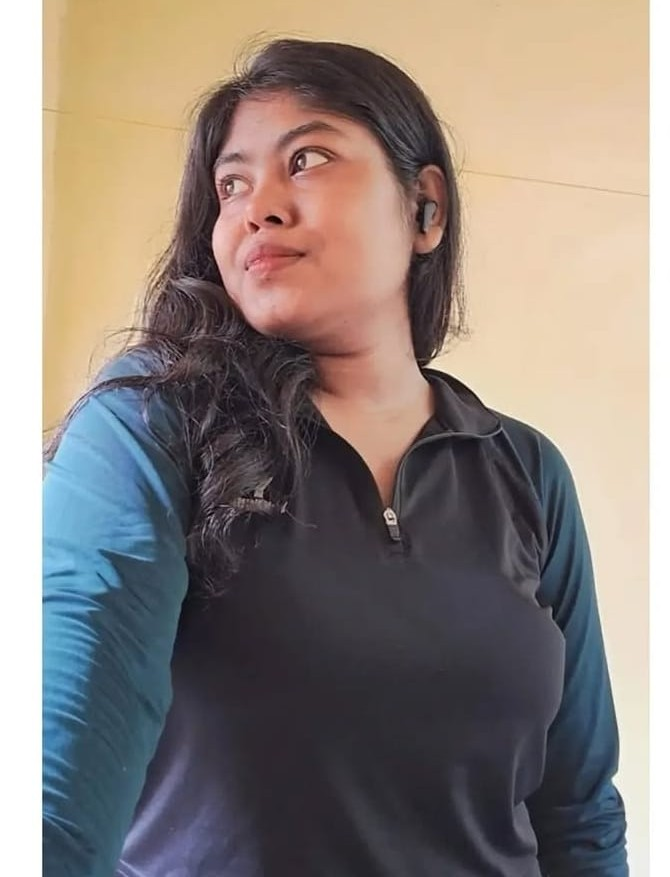
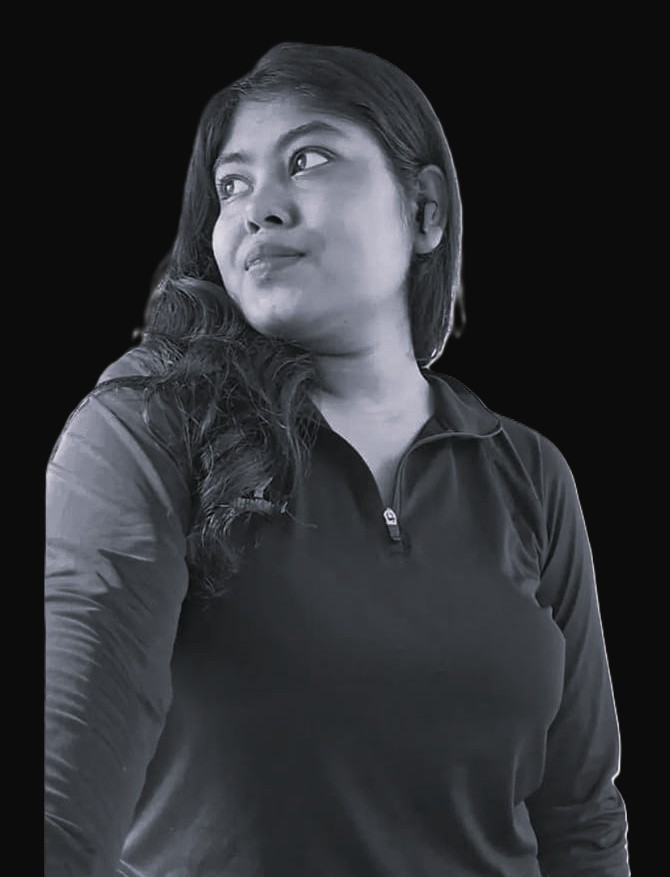
updated design

diff --git a/src/Components/Skills.jsx b/src/Components/Skills.jsx
@@ -1,71 +1,54 @@
-import React from "react";
-import { IoLogoHtml5, IoLogoJavascript } from "react-icons/io";
-import { FaCss3Alt } from "react-icons/fa6";
-import { FaReact } from "react-icons/fa";
-import { RiTailwindCssFill } from "react-icons/ri";
-import { MdOutlineSettingsApplications } from "react-icons/md";
-import { FaBootstrap } from "react-icons/fa6";
-import { SiReactbootstrap } from "react-icons/si";
-import { FaNodeJs } from "react-icons/fa";
-import { SiExpress } from "react-icons/si";
-import { DiMongodb } from "react-icons/di";
-import { FaGitAlt } from "react-icons/fa";
-import { VscVscode } from "react-icons/vsc";
-import { FaBitbucket } from "react-icons/fa";
-import { IoLogoVercel } from "react-icons/io5";
-import { SiNetlify } from "react-icons/si";
-import { SiVite } from "react-icons/si";
-import { SiPostman } from "react-icons/si";
-import { RiNextjsLine } from "react-icons/ri";
-import { SiRedux } from "react-icons/si";
+import React, { useState } from "react";
+
+import skillData from "./skills";
+import SkillButton from "./SkillButton";
 
 export default function Skills() {
+  const [skillMap, setSkillMap] = useState(skillData);
+  const frontEnd = skillMap.filter((v) => v.category === "frontend");
+  const backEnd = skillMap.filter((v) => v.category === "backend");
+  const frameWork = skillMap.filter((v) => v.category === "framework");
+  const tools = skillMap.filter((v) => v.category === "tools");
+
   return (
     <>
       <div className="min-h-screen  text-gray-300 py-10">
-        <h1 className="md:text-5xl text-4xl font-light  text-[#00FFFF] tracking-[8px] text-center  p-10 md:my-5 ">My Skills</h1>
+        <h1 className="md:text-5xl text-4xl font-light  text-[#00FFFF] tracking-[8px] text-center  p-10 md:my-5 ">
+          My Skills
+        </h1>
         <div className="flex flex-wrap justify-center gap-10 p-5">
-          <div className="card bg-[#43485734] shadow-2xl p-5 md:p-10 rounded-2xl w-full md:w-[40%] hover:scale-[1.05] transition-all duration-300 hover:shadow-[0_0_25px_#14b8a6]">
+          <div className="card bg-[#43485734] shadow-2xl p-5 md:p-10 rounded-2xl w-full md:w-[38%] hover:scale-[1.05] transition-all duration-300 hover:shadow-[0_0_25px_#14b8a6]">
             <h2 className="text-2xl px-5 font-semibold text-teal-300">
               Frontend
             </h2>
-            <div className="flex text-3xl md:text-5xl gap-5 px-5 py-10">
-              <IoLogoHtml5 />
-              <FaCss3Alt />
-              <IoLogoJavascript />
-              <FaReact />
-              <MdOutlineSettingsApplications />
-              <SiRedux />
+            <div className="flex flex-wrap text-[16px] gap-5 px-5 py-5">
+              {frontEnd.map((v, i) => {
+                return <SkillButton item={v} />;
+              })}
             </div>
           </div>
-          <div className="card bg-[#43485734] shadow-2xl p-5 md:p-10 rounded-2xl w-full md:w-[40%] hover:scale-[1.05] transition-all duration-300 hover:shadow-[0_0_25px_#14b8a6]">
+          <div className="card bg-[#43485734] shadow-2xl p-5 md:p-10 rounded-2xl w-full md:w-[38%] hover:scale-[1.05] transition-all duration-300 hover:shadow-[0_0_25px_#14b8a6]">
             <h2 className="text-2xl px-5 text-teal-300">Backend</h2>
-            <div className="flex text-3xl md:text-5xl gap-5  px-5 py-10">
-              <FaNodeJs />
-              <SiExpress />
-              <DiMongodb />
+            <div className="flex flex-wrap text-[16px] gap-5  px-5 py-5">
+              {backEnd.map((v, i) => {
+                return <SkillButton item={v} />;
+              })}
             </div>
           </div>
-          <div className="card bg-[#43485734] shadow-2xl p-5 md:p-10 rounded-2xl w-full md:w-[40%] hover:scale-[1.05] transition-all duration-300 hover:shadow-[0_0_25px_#14b8a6]">
+          <div className="card bg-[#43485734] shadow-2xl p-5 md:p-10 rounded-2xl w-full md:w-[38%] hover:scale-[1.05] transition-all duration-300 hover:shadow-[0_0_25px_#14b8a6]">
             <h2 className="text-2xl px-5 text-teal-300">Frameworks</h2>
-            <div className="flex text-3xl md:text-5xl gap-5  px-5 py-10">
-              <RiNextjsLine />
-              <RiTailwindCssFill />
-              <MdOutlineSettingsApplications />
-              <FaBootstrap />
-              <SiReactbootstrap />
+            <div className="flex flex-wrap text-[16px] gap-5  px-5 py-5">
+              {frameWork.map((v, i) => {
+                return <SkillButton item={v} />;
+              })}
             </div>
           </div>
-          <div className="card bg-[#43485734] shadow-2xl p-5 md:p-10 rounded-2xl w-full md:w-[40%] hover:scale-[1.05] transition-all duration-300 hover:shadow-[0_0_25px_#14b8a6]">
+          <div className="card bg-[#43485734] shadow-2xl p-5 md:p-10 rounded-2xl w-full md:w-[38%] hover:scale-[1.05] transition-all duration-300 hover:shadow-[0_0_25px_#14b8a6]">
             <h2 className="text-2xl px-5 text-teal-300">Tools & others</h2>
-            <div className="flex text-3xl md:text-5xl gap-5  flex-wrap px-5 py-10">
-              <FaGitAlt />
-              <VscVscode />
-              <FaBitbucket />
-              <IoLogoVercel />
-              <SiNetlify />
-              <SiVite />
-              <SiPostman />
+            <div className="flex text-[16px] gap-5  flex-wrap px-1 py-5">
+              {tools.map((v, i) => {
+                return <SkillButton item={v} />;
+              })}
             </div>
           </div>
         </div>

diff --git a/src/Components/skills.js b/src/Components/skills.js
@@ -1,0 +1,67 @@
+// skills.js
+import { IoLogoHtml5, IoLogoJavascript } from "react-icons/io";
+import {
+  FaCss3Alt,
+  FaReact,
+  FaBootstrap,
+  FaNodeJs,
+  FaGitAlt,
+  FaBitbucket,
+} from "react-icons/fa6";
+import { RiTailwindCssFill, RiNextjsLine } from "react-icons/ri";
+import {
+  SiReactbootstrap,
+  SiExpress,
+  SiNetlify,
+  SiVite,
+  SiPostman,
+  SiRedux,
+} from "react-icons/si";
+import { DiMongodb } from "react-icons/di";
+import { VscVscode } from "react-icons/vsc";
+import { IoLogoVercel } from "react-icons/io5";
+import { MdOutlineSettingsApplications } from "react-icons/md";
+import {
+  SiTypescript,
+  SiMongoose,
+  SiFramer,
+  SiAmazonwebservices,
+  SiFirebase,
+  SiHeroku,
+  SiJest,
+  SiCypress,
+  SiEslint,
+  SiPrettier,
+} from "react-icons/si";
+
+
+const skillData = [
+  { icon: IoLogoHtml5, name: "HTML5", category: "frontend" },
+  { icon: FaCss3Alt, name: "CSS3", category: "frontend" },
+  { icon: IoLogoJavascript, name: "JavaScript", category: "frontend" },
+  { icon: FaReact, name: "React", category: "framework" },
+  { icon: RiTailwindCssFill, name: "Tailwind CSS", category: "frontend" },
+  { icon: FaBootstrap, name: "Bootstrap", category: "frontend" },
+  { icon: SiReactbootstrap, name: "React Bootstrap", category: "framework" },
+  { icon: FaNodeJs, name: "Node.js", category: "backend" },
+  { icon: SiExpress, name: "Express.js", category: "backend" },
+  { icon: DiMongodb, name: "MongoDB", category: "backend" },
+  { icon: SiRedux, name: "Redux", category: "framework" },
+  { icon: RiNextjsLine, name: "Next.js", category: "framework" },
+  { icon: SiVite, name: "Vite", category: "tools" },
+  { icon: SiPostman, name: "Postman", category: "tools" },
+  { icon: FaGitAlt, name: "Git", category: "tools" },
+  { icon: FaBitbucket, name: "Bitbucket", category: "tools" },
+  { icon: VscVscode, name: "VS Code", category: "tools" },
+  { icon: IoLogoVercel, name: "Vercel", category: "tools" },
+  { icon: SiNetlify, name: "Netlify", category: "tools" },
+  { icon: SiTypescript, name: "TypeScript", category: "frontend" },
+  { icon: SiMongoose, name: "Mongoose", category: "backend" },
+  { icon: SiAmazonwebservices, name: "AWS", category: "tools" },
+  { icon: SiFirebase, name: "Firebase", category: "tools" },
+  { icon: SiHeroku, name: "Heroku", category: "tools" },
+  { icon: SiJest, name: "Jest", category: "tools" },
+  { icon: SiFramer, name: "Framer Motion", category: "framework" },
+];
+
+export default skillData;

diff --git a/src/Components/Home/HeroSection.jsx b/src/Components/Home/HeroSection.jsx
@@ -1,18 +1,18 @@
 import React from "react";
-import myGif from "../../assets/images/2.jpg";
+import myGif from "../../assets/images/4.jpg";
 import Intro from "./Intro";
 import Social from "../social/Social";
 
 export default function () {
   return (
     <>
-      <div className="mt-[10px] h-[900px] font-mono flex flex-col-reverse md:flex-row  justify-around items-center gap-5 px-28 py-20 w-full max-w-full overflow-x-hidden ">
+      <div className="md:mt-[10px] h-[900px] font-mono flex flex-col-reverse md:flex-row  justify-around items-center gap-5 px-28 py-20 w-full max-w-full overflow-x-hidden ">
         <div>
           <Intro />
         </div>
         <div className="flex flex-col gap-5 items-center">
-          <div className="  w-[200px] h-[200px] md:w-[250px] md:h-[250px] flex  justify-center mt-15 my-5 items-center relative">
-            <div className="w-[200px] h-[200px] md:w-[250px] md:h-[250px] rounded-full overflow-hidden absolute shadow-[0_0_25px_10px_rgba(0,255,255,0.2)] hover:scale-105 hover:shadow-[0_0_25px_5px_#14b8a6] transition-all duration-300">
+          <div className="  w-[200px] h-[200px] md:w-[320px] md:h-[320px] flex  justify-center mt-15 my-5 items-center relative">
+            <div className="w-[200px] h-[200px] md:w-[320px] md:h-[320px] rounded-full overflow-hidden absolute shadow-[0_0_25px_15px_rgba(0,255,255,0.2)] hover:scale-105 hover:shadow-[0_0_25px_15px_#14b8a6]  transition-all duration-300">
               <img src={myGif} alt="" className="img-fluid" />
             </div>
           </div>

diff --git a/src/Components/SkillButton.jsx b/src/Components/SkillButton.jsx
@@ -1,0 +1,35 @@
+import React, { useState } from "react";
+import { IoLogoHtml5, IoLogoJavascript } from "react-icons/io";
+import { FaCss3Alt } from "react-icons/fa6";
+import { FaReact } from "react-icons/fa";
+import { RiTailwindCssFill } from "react-icons/ri";
+import { MdOutlineSettingsApplications } from "react-icons/md";
+import { FaBootstrap } from "react-icons/fa6";
+import { SiReactbootstrap } from "react-icons/si";
+import { FaNodeJs } from "react-icons/fa";
+import { SiExpress } from "react-icons/si";
+import { DiMongodb } from "react-icons/di";
+import { FaGitAlt } from "react-icons/fa";
+import { VscVscode } from "react-icons/vsc";
+import { FaBitbucket } from "react-icons/fa";
+import { IoLogoVercel } from "react-icons/io5";
+import { SiNetlify } from "react-icons/si";
+import { SiVite } from "react-icons/si";
+import { SiPostman } from "react-icons/si";
+import { RiNextjsLine } from "react-icons/ri";
+import { SiRedux } from "react-icons/si";
+import skillData from "./skills";
+
+export default function SkillButton({ item }) {
+  const Icon = item.icon;
+  
+
+  return (
+    <div>
+      <div className="flex gap-1  rounded-full border border-teal-500 items-center px-3 py-2 shadow-[0_0_10px_2px_rgba(0,255,255,0.2)] hover:shadow-[0_0_15px_5px_#14b8a6] transition-all duration-300">
+        <Icon className="text-[20px]" />
+        <div>{item.name}</div>
+      </div>
+    </div>
+  );
+}

diff --git a/src/Components/Home/Intro.jsx b/src/Components/Home/Intro.jsx
@@ -7,7 +7,7 @@ export default function () {
     <>
       <div className=" font-pop py-2 mt-8 ">
         <h3 className=" font-pop text-[40px] text-5xl md:text-8xl p-2 text-gray-200">Hi I'm</h3>
-        <div className=" text-6xl md:text-8xl text-gray-900 font-pop shimmer-text  py-3 textColor">
+        <div className=" text-6xl md:text-8xl text-gray-900 font-pop shimmer-text  py-3 ">
           RUPOSHI GORAI
         </div>
         <div className=" text-[18px] md:text-3xl mb-5 py-2 ">
@@ -28,7 +28,7 @@ export default function () {
         <button className="bg-gradient-to-r from-[#11c5cb] font-pop to-[#02795f] text-white py-3 md:py-2 mt-5 px-4 rounded-full cursor-pointer hover:scale-105 transition-transform">
           View My Works
         </button>
-        <button className="bg-gradient-to-r border border-teal-400 shadow-[0_0_25px_5px_rgba(0,255,255,0.2)]  text-white py-3 md:py-2 mt-5 px-4 rounded-full cursor-pointer hover:scale-105 transition-transform">
+        <button className="bg-gradient-to-r border border-teal-400 shadow-[0_0_25px_5px_rgba(0,255,255,0.2)] hover:shadow-[0_0_25px_5px_rgba(0,255,255,0.5)] text-white py-3 md:py-2 mt-5 px-4 rounded-full cursor-pointer hover:scale-105 transition-transform">
           Hire me 
         </button>
         </div>

diff --git a/src/Components/Projects.jsx b/src/Components/Projects.jsx
@@ -8,12 +8,11 @@ import { motion } from "framer-motion";
 export default function Projects() {
   const [project, setProject] = useState([]);
   useEffect(() => {
-    const githubToken = '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';
     axios
       .get("https://api.github.com/users/Ruposhi-Gorai/repos", {
-           headers:{
-          Authorization:`token${githubToken}`,
-        },
+        //    headers:{
+        //   Authorization:`token${githubToken}`,
+        // },
         params: {
           per_page: 6,
           sort: "updated",

diff --git a/src/main.jsx b/src/main.jsx
@@ -3,7 +3,7 @@ import { createRoot } from "react-dom/client";
 
 import HomePage from "./Components/Home/HomePage";
 import About from "./Components/About/About";
-import Skills from "./Components/Skills";
+import Skills from "./Components/Skills.jsx";
 import Contact from "./Components/Contact";
 import Projects from "./Components/Projects";
 import Footer from "./Components/Footer";
